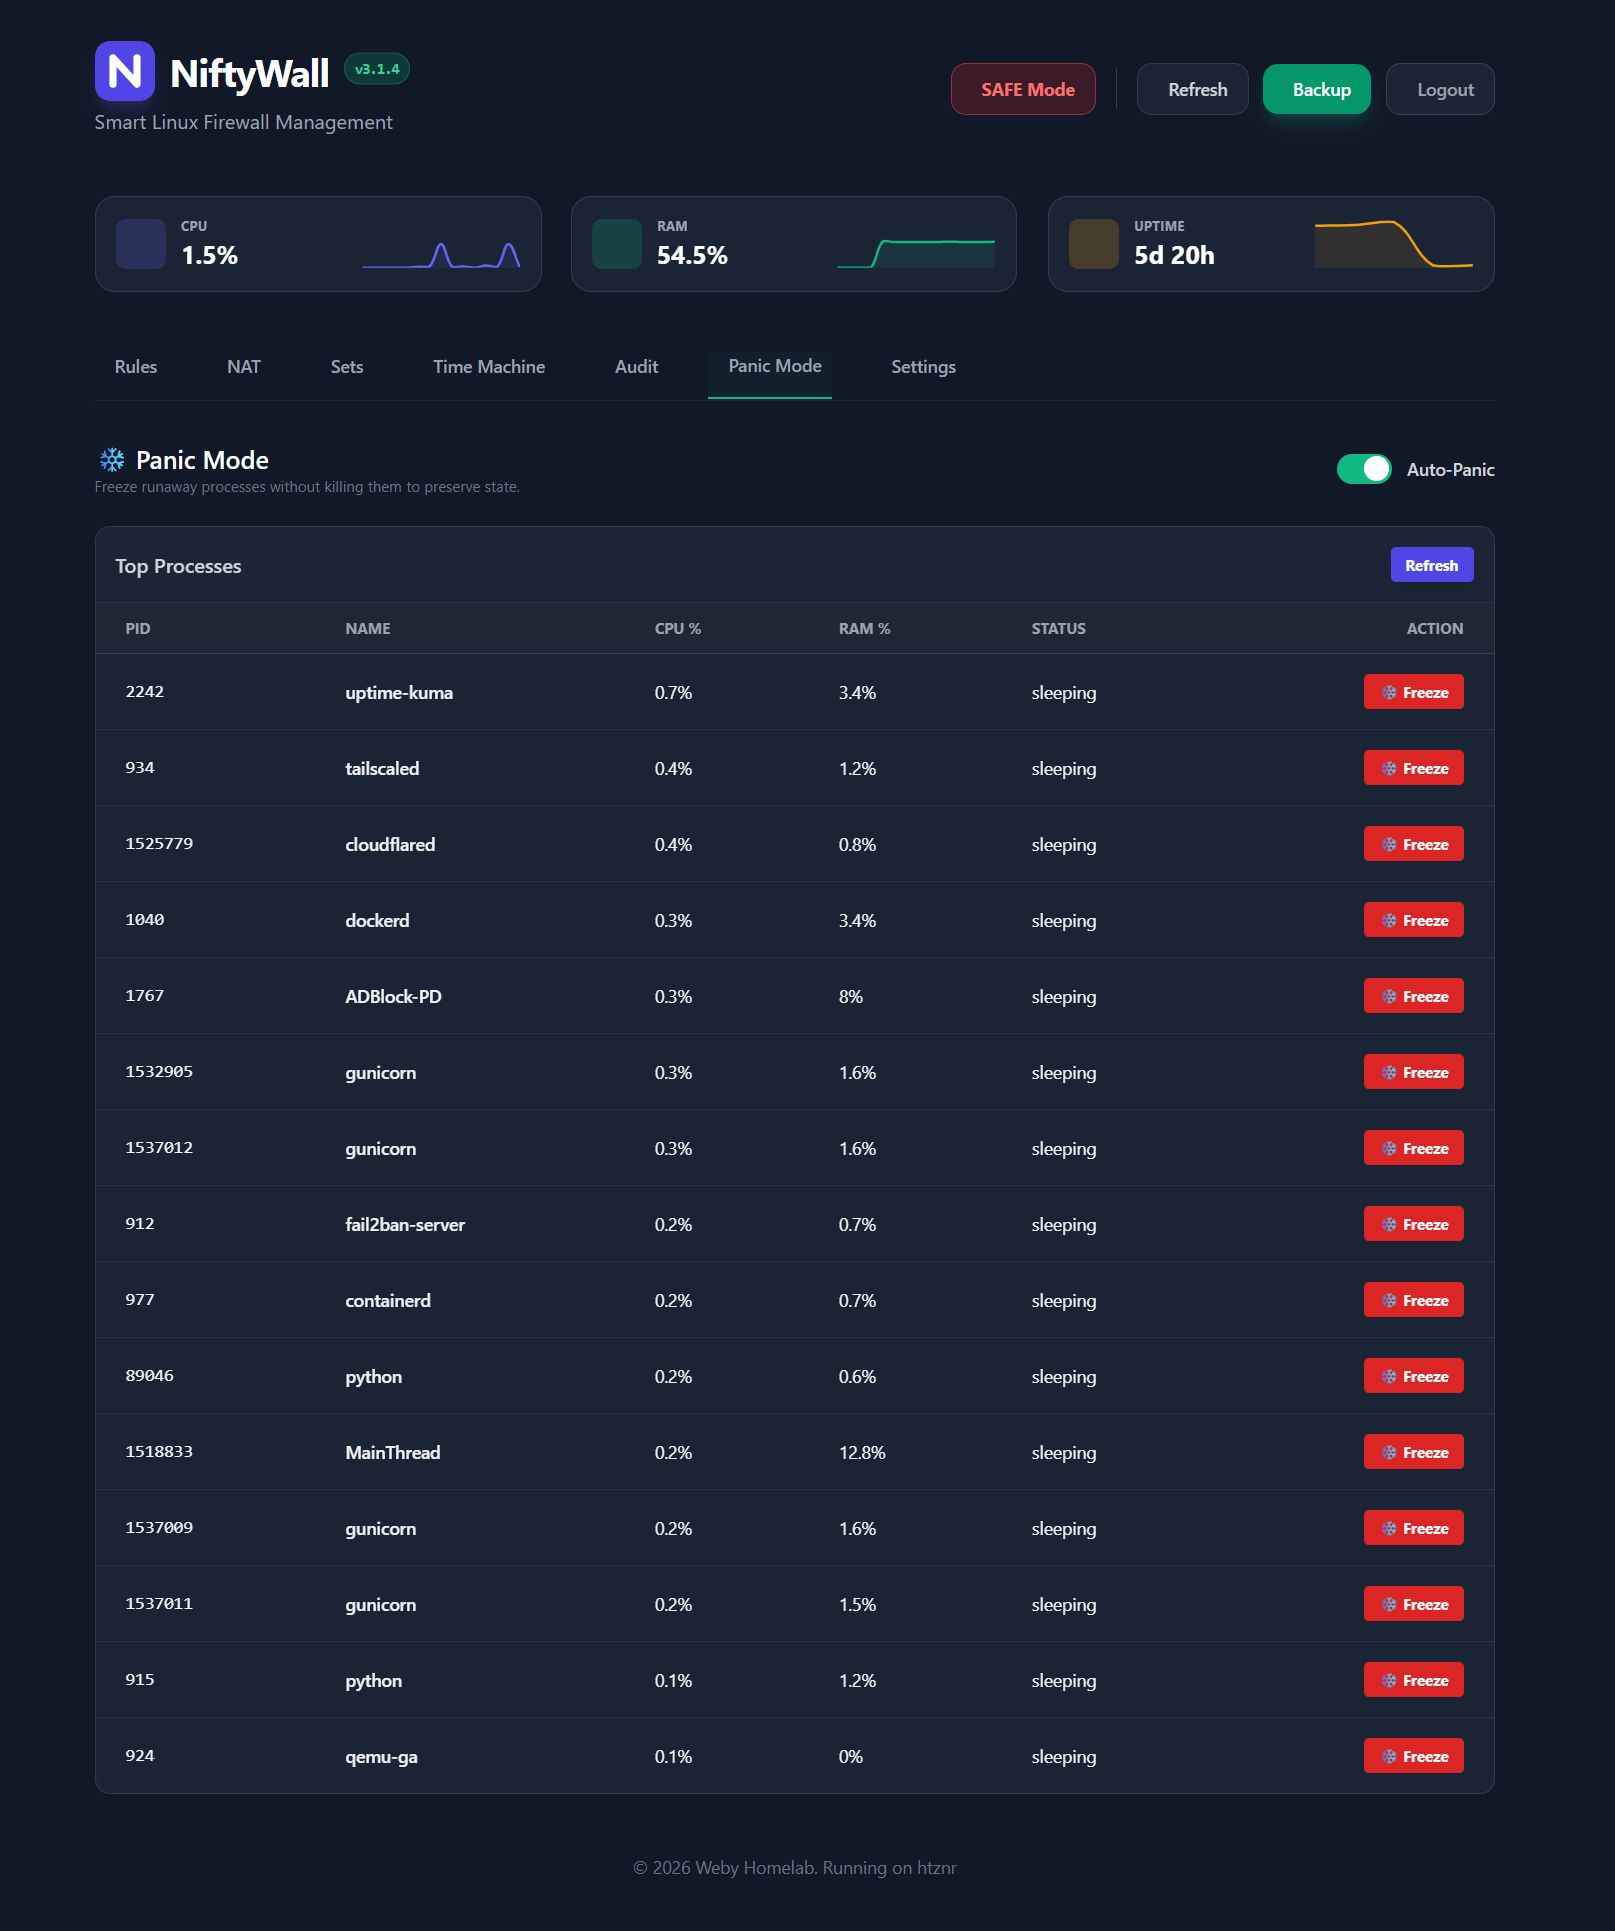
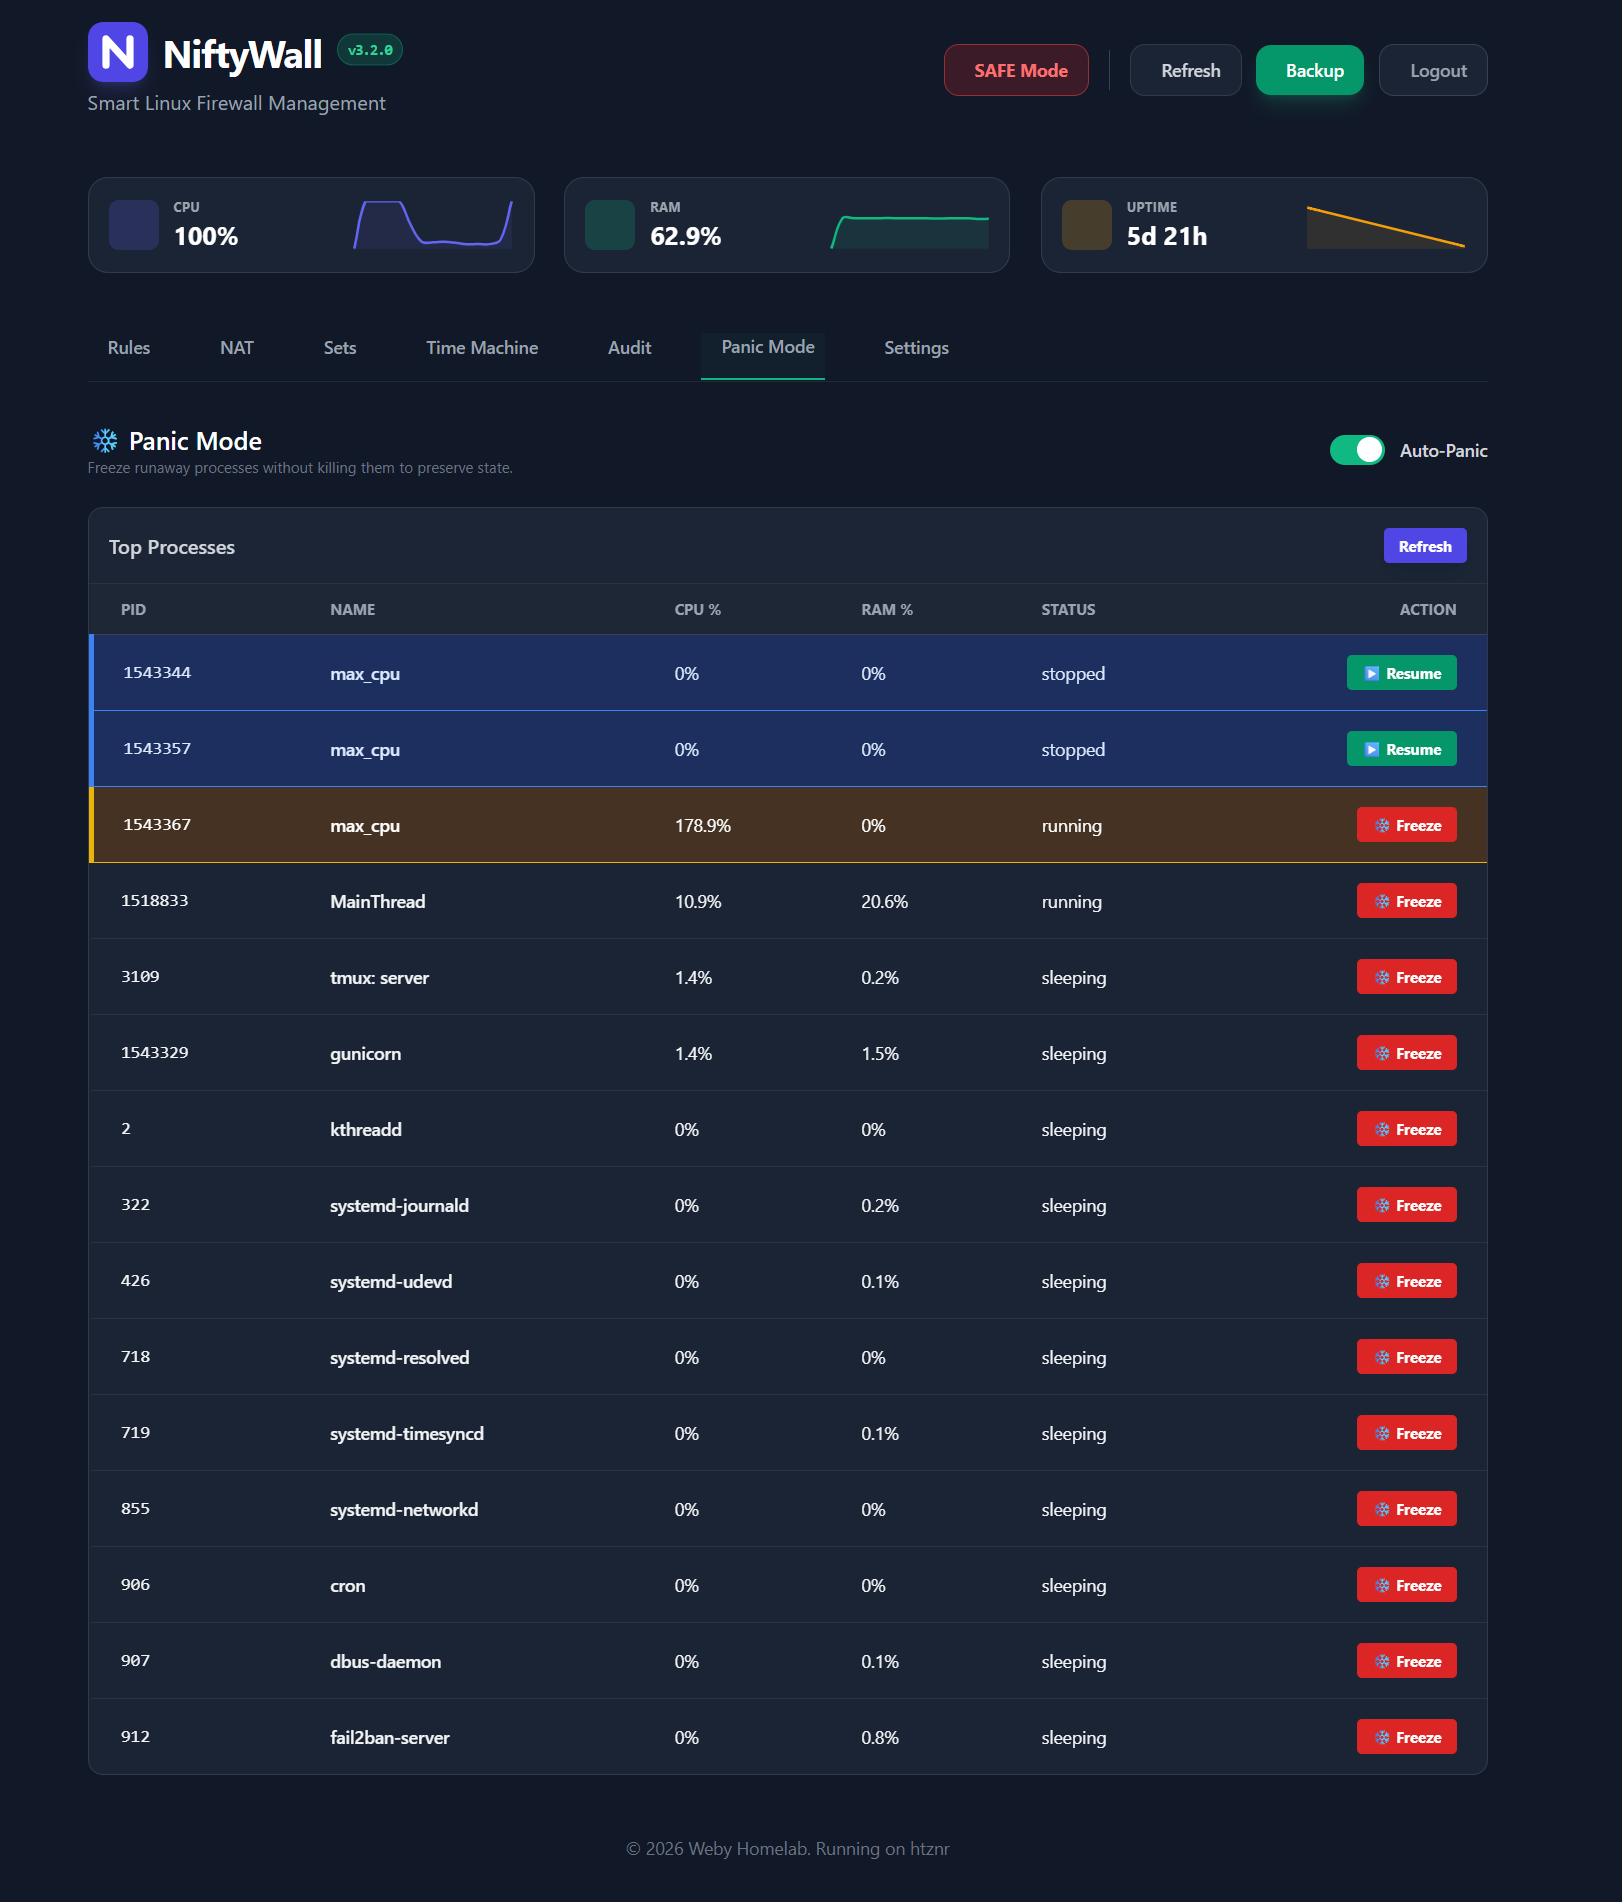
Release v3.2.1: Enhanced Telegram alerts with system metadata and RAM protection

diff --git a/app/panic_router.py b/app/panic_router.py
@@ -6,10 +6,51 @@ import asyncio
 from typing import List, Dict
 from app.db import get_db
 
+import requests
+import socket
+
 router = APIRouter(prefix="/api/panic", tags=["panic"])
 
 # We keep track of auto-frozen processes to avoid spamming
 FROZEN_PIDS = set()
+
+def get_public_ip():
+    try:
+        return requests.get("https://api.ipify.org", timeout=5).text
+    except:
+        return "Unknown"
+
+def send_telegram_alert(message: str):
+    try:
+        conn = get_db()
+        c = conn.cursor()
+        c.execute("SELECT value FROM settings WHERE key = 'tg_bot_token'")
+        token_row = c.fetchone()
+        c.execute("SELECT value FROM settings WHERE key = 'tg_chat_id'")
+        chat_id_row = c.fetchone()
+        conn.close()
+
+        if token_row and chat_id_row:
+            token = token_row[0]
+            chat_id = chat_id_row[0]
+            
+            hostname = socket.gethostname()
+            ip = get_public_ip()
+            
+            # Append System Info to every alert
+            footer = f"\n\n🌐 <b>Host:</b> <code>{hostname}</code>\n📍 <b>IP:</b> <code>{ip}</code>"
+            
+            # Post-action stats
+            cpu = psutil.cpu_percent()
+            ram = psutil.virtual_memory().percent
+            stats = f"\n📊 <b>Post-action Status:</b> CPU: {cpu}% | RAM: {ram}%"
+            
+            full_message = message + stats + footer
+            
+            url = f"https://api.telegram.org/bot{token}/sendMessage"
+            requests.post(url, json={"chat_id": chat_id, "text": full_message, "parse_mode": "HTML"}, timeout=5)
+    except Exception as e:
+        print(f"Failed to send TG alert: {e}")
 
 def get_auto_panic_state() -> bool:
     try:
@@ -111,7 +152,9 @@ async def auto_panic_daemon():
                         if top_cpu_proc and top_cpu_proc['cpu'] > 80.0 and top_cpu_proc['pid'] not in FROZEN_PIDS:
                             os.kill(top_cpu_proc['pid'], signal.SIGSTOP)
                             FROZEN_PIDS.add(top_cpu_proc['pid'])
-                            print(f"❄️ [PanicMode] Auto-Frozen {top_cpu_proc['name']} ({top_cpu_proc['pid']}) at {top_cpu_proc['cpu']}% CPU")
+                            msg = f"❄️ <b>[PanicMode] Auto-Frozen</b>\nProcess: <code>{top_cpu_proc['name']}</code> (PID: {top_cpu_proc['pid']})\nReason: {top_cpu_proc['cpu']}% CPU usage"
+                            send_telegram_alert(msg)
+                            print(msg)
                     
                     if total_ram > 95.0:
                         # Find highest RAM process
@@ -120,7 +163,9 @@ async def auto_panic_daemon():
                             os.kill(top_ram_proc['pid'], signal.SIGKILL)
                             # Remove from frozen list if it was there just in case
                             FROZEN_PIDS.discard(top_ram_proc['pid'])
-                            print(f"🚨 [PanicMode] Auto-Killed {top_ram_proc['name']} ({top_ram_proc['pid']}) at {top_ram_proc['ram']}% RAM to free memory")
+                            msg = f"🚨 <b>[PanicMode] Auto-Killed</b>\nProcess: <code>{top_ram_proc['name']}</code> (PID: {top_ram_proc['pid']})\nReason: {top_ram_proc['ram']}% RAM usage"
+                            send_telegram_alert(msg)
+                            print(msg)
         except Exception as e:
             print(f"Auto-panic error: {e}")
         await asyncio.sleep(5)